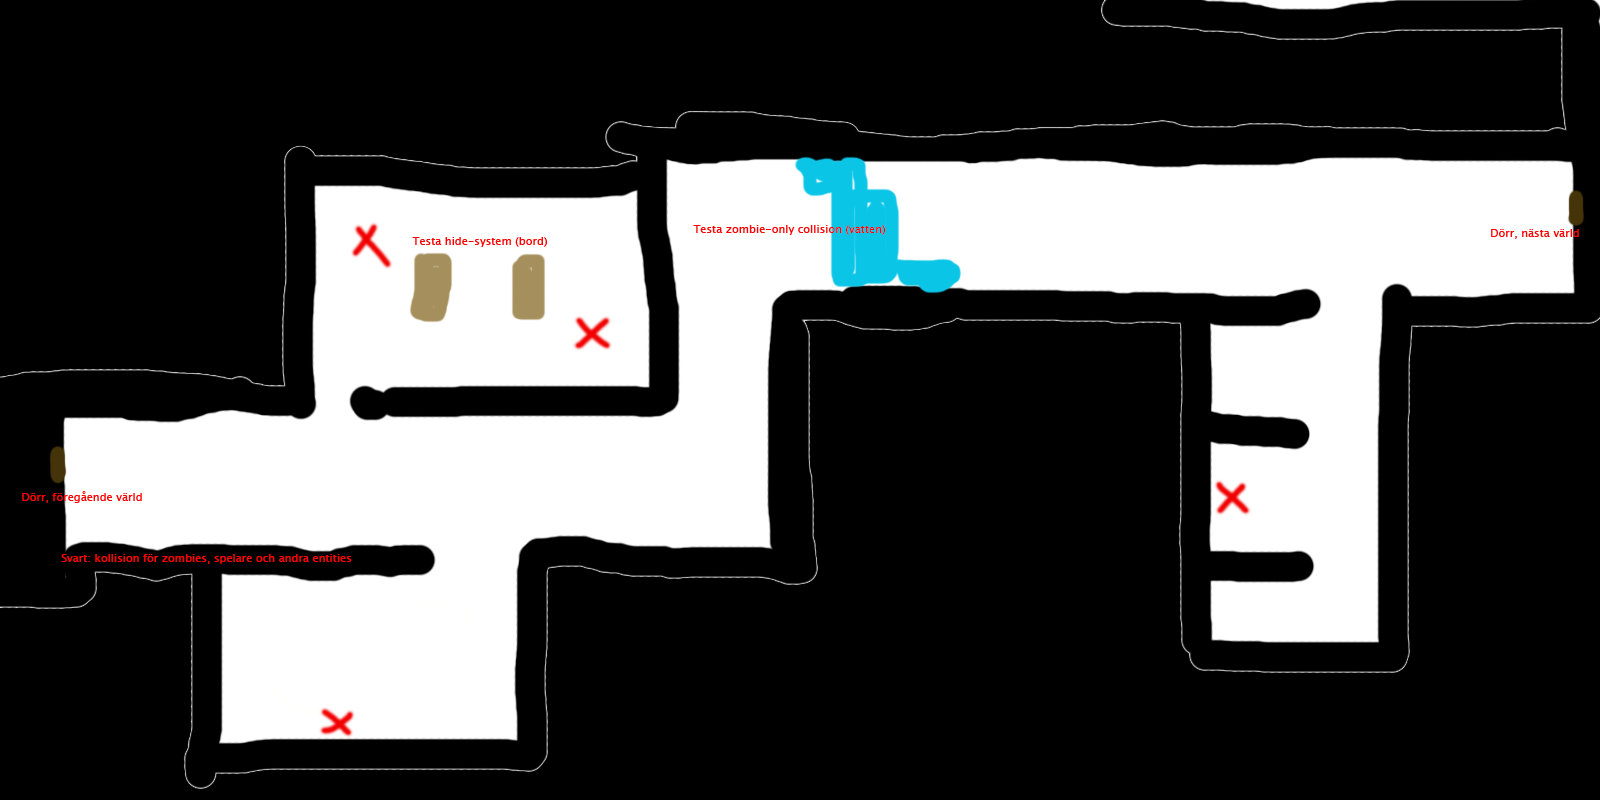
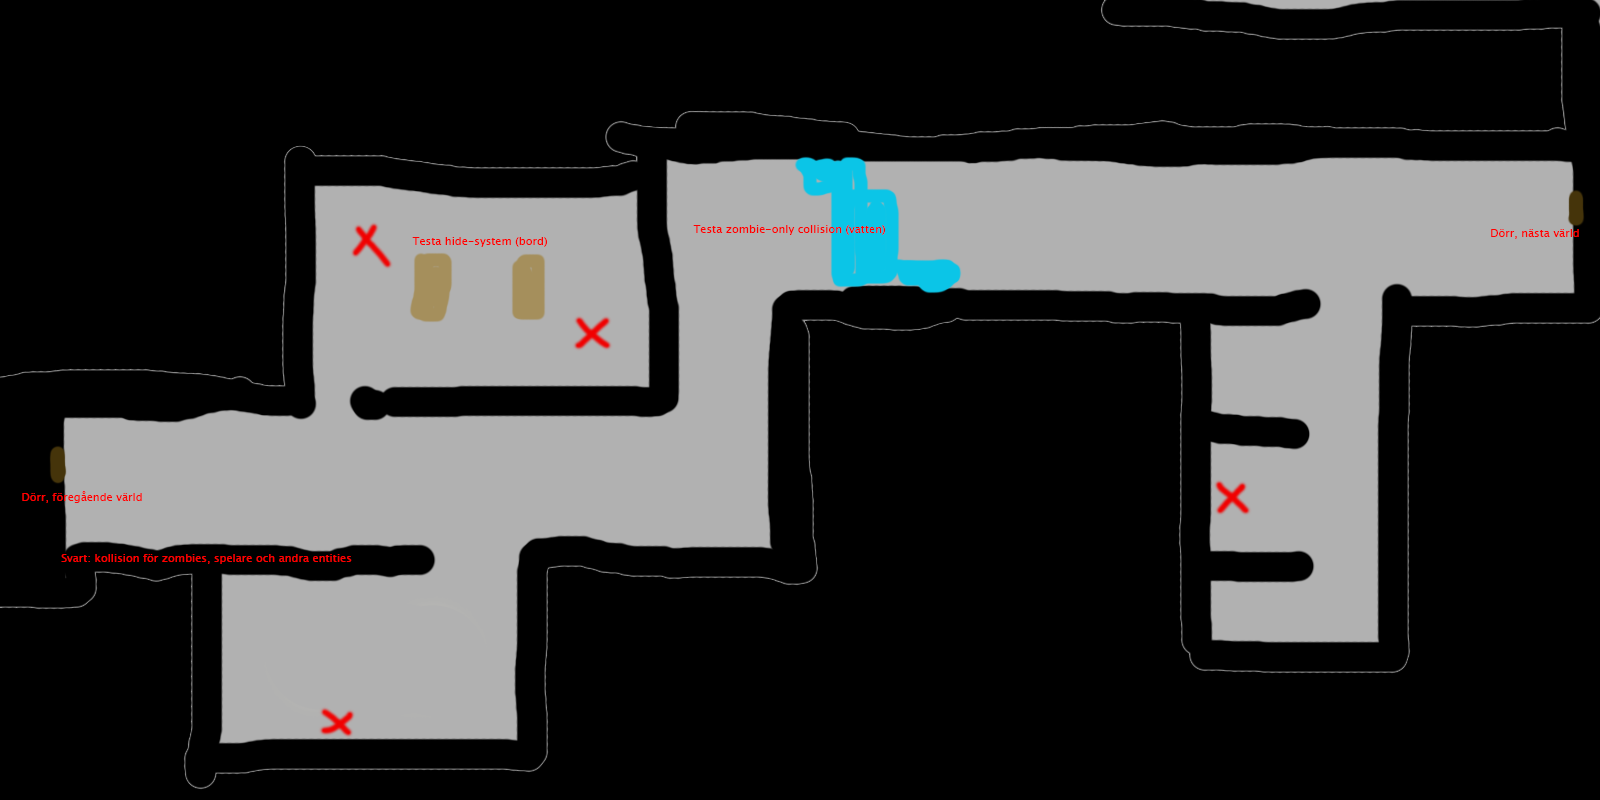
Now uses the second test world

Changed region(s): [[0.0312, 0.1875, 1.0, 0.9375], [0.7812, 0.0, 0.875, 0.0312]]

diff --git a/core/src/edu/chalmers/zombie/Controller/MapController.java b/core/src/edu/chalmers/zombie/Controller/MapController.java
@@ -1,5 +1,6 @@
 package edu.chalmers.zombie.controller;
 
+import com.badlogic.gdx.graphics.Texture;
 import com.badlogic.gdx.graphics.g2d.Sprite;
 import com.badlogic.gdx.maps.tiled.TiledMap;
 import com.badlogic.gdx.maps.tiled.TiledMapTileLayer;
@@ -9,6 +10,7 @@ import com.badlogic.gdx.physics.box2d.joints.FrictionJointDef;
 import com.sun.xml.internal.bind.v2.runtime.reflect.opt.Const;
 import edu.chalmers.zombie.adapter.CollisionObject;
 import edu.chalmers.zombie.adapter.Level;
+import edu.chalmers.zombie.adapter.Player;
 import edu.chalmers.zombie.adapter.Zombie;
 import edu.chalmers.zombie.model.GameModel;
 import edu.chalmers.zombie.testing.ZombieTest;
@@ -82,14 +84,14 @@ public class MapController {
         //Door, next
         fixDef = new FixtureDef();
         fixDef.shape = shape;
-        fixDef.filter.categoryBits = Constants.COLLISION_DOOR_NEXT |Constants.COLLISION_OBSTACLE;
+        fixDef.filter.categoryBits = Constants.COLLISION_DOOR_NEXT;
         fixDef.filter.maskBits = Constants.COLLISION_ZOMBIE | Constants.COLLISION_PROJECTILE;
         collisionObjects.add(new CollisionObject("door_next", bodyDef, fixDef));
 
         //Door, previous
         fixDef = new FixtureDef();
         fixDef.shape = shape;
-        fixDef.filter.categoryBits = Constants.COLLISION_DOOR_PREVIOUS | Constants.COLLISION_OBSTACLE;
+        fixDef.filter.categoryBits = Constants.COLLISION_DOOR_PREVIOUS;
         fixDef.filter.maskBits = Constants.COLLISION_ZOMBIE | Constants.COLLISION_PROJECTILE;
         collisionObjects.add(new CollisionObject("door_previous", bodyDef, fixDef));
 
@@ -121,12 +123,13 @@ public class MapController {
      * @param metaLayerName The name of the meta layer of the map
      */
 
-    public void createObstacles(String metaLayerName, ArrayList<CollisionObject> collisionObjects) {
+    public void createBodies(String metaLayerName, ArrayList<CollisionObject> collisionObjects) {
         World world = getWorld();
         TiledMap tiledMap = getMap();
         TiledMapTileLayer metaLayer = (TiledMapTileLayer) tiledMap.getLayers().get(metaLayerName);
 
         String zombieSpawn = "zombie_spawn"; //TODO test tills vi får flera sorters zombies
+        String playerSpawn = "player_spawn"; //TODO test tills ovan är fixat
 
         if (metaLayer != null) {
             metaLayer.setVisible(false);
@@ -141,11 +144,13 @@ public class MapController {
                                 obj.getBodyDef().position.set((col + 0.5f) * tileSize / ppM, (row + 0.5f) * tileSize / ppM);
                                 world.createBody(obj.getBodyDef()).createFixture(obj.getFixtureDef());
                             }
-                            if(currentCell.getTile().getProperties().get(zombieSpawn) != null) {
-                                Zombie zombie = new ZombieTest(getWorld(), row, col);
-                                getLevel().addZombie(zombie);
-                            }
-
+                        }
+                        if(currentCell.getTile().getProperties().get(zombieSpawn) != null) {
+                          Zombie zombie = new ZombieTest(getWorld(), col, row);           //TODO test
+                           getLevel().addZombie(zombie);
+                        }
+                        if(currentCell.getTile().getProperties().get(playerSpawn) != null) {
+                            gameModel.setPlayer(new Player(new Sprite(new Texture("core/assets/player_professional_final_version.png")),getWorld(),col,row)); //TODO test
                         }
                     }
                 }
@@ -156,7 +161,7 @@ public class MapController {
 
 
     /*  -----------------------OLD----------------------------------------
-    public void createObstacles(String metaLayerName, String collisionProperty){
+    public void createBodies(String metaLayerName, String collisionProperty){
         World world = getWorld();
         TiledMap tiledMap = getMap();
         BodyDef bodyDef = new BodyDef();
@@ -192,7 +197,7 @@ public class MapController {
     }
      -----------------------------END--------------------------------------------*/
 
-    public void createObstacles (int index, String metaLayerName, String collisionProperty){
+    public void createBodies(int index, String metaLayerName, String collisionProperty){
 
        //TODO lägg till när tillhörande model-kod implementerats
     }

diff --git a/core/src/edu/chalmers/zombie/Model/GameModel.java b/core/src/edu/chalmers/zombie/Model/GameModel.java
@@ -34,9 +34,10 @@ public class GameModel {
         currentLevel = 0;
         levels = new ArrayList<Level>();
         entitiesToRemove = new HashSet<Entity>();
-        addTestLevel();                                 //TODO debug
-        addTestPlayer();                                //TODO debug
-        addTestZombie();                                //TODO debug
+        //addTestLevel();                                 //TODO debug
+        addTestLevel_2();                                 //TODO debug
+        //addTestPlayer();                                //TODO debug
+       // addTestZombie();                                //TODO debug
     }
 
     /**
@@ -44,6 +45,13 @@ public class GameModel {
      */
     private void addTestLevel(){
         levels.add(new Level("core/assets/Map/Test_v2.tmx", "core/assets/Map/testmap.png", "core/assets/Map/testmap_top.png"));
+    }
+
+    /**
+     * Only for debug
+     */
+    private void addTestLevel_2(){
+        levels.add(new Level("core/assets/Map/Test_world_2.tmx", "core/assets/Map/Test_world_2_bottom.png", "core/assets/Map/Test_world_2_top.png"));
     }
 
     /**
@@ -73,6 +81,14 @@ public class GameModel {
      */
     public Player getPlayer(){
         return player;
+    }
+
+    /**
+     * Sets the player
+     * @param player The player
+     */
+    public void setPlayer(Player player){
+        this.player = player;
     }
 
     public Zombie getZombie(){

diff --git a/core/src/edu/chalmers/zombie/view/GameScreen.java b/core/src/edu/chalmers/zombie/view/GameScreen.java
@@ -72,7 +72,7 @@ public class GameScreen implements Screen{
         Gdx.input.setInputProcessor(new InputController());
         //Lägg till kollisionsobjekt
         mapController.initializeCollisionObjects();
-        mapController.createObstacles("meta", GameModel.getInstance().getCollisionObjects());
+        mapController.createBodies("meta", GameModel.getInstance().getCollisionObjects());
         //HUD
         batchHUD = new SpriteBatch();
         bitmapFont = new BitmapFont();
